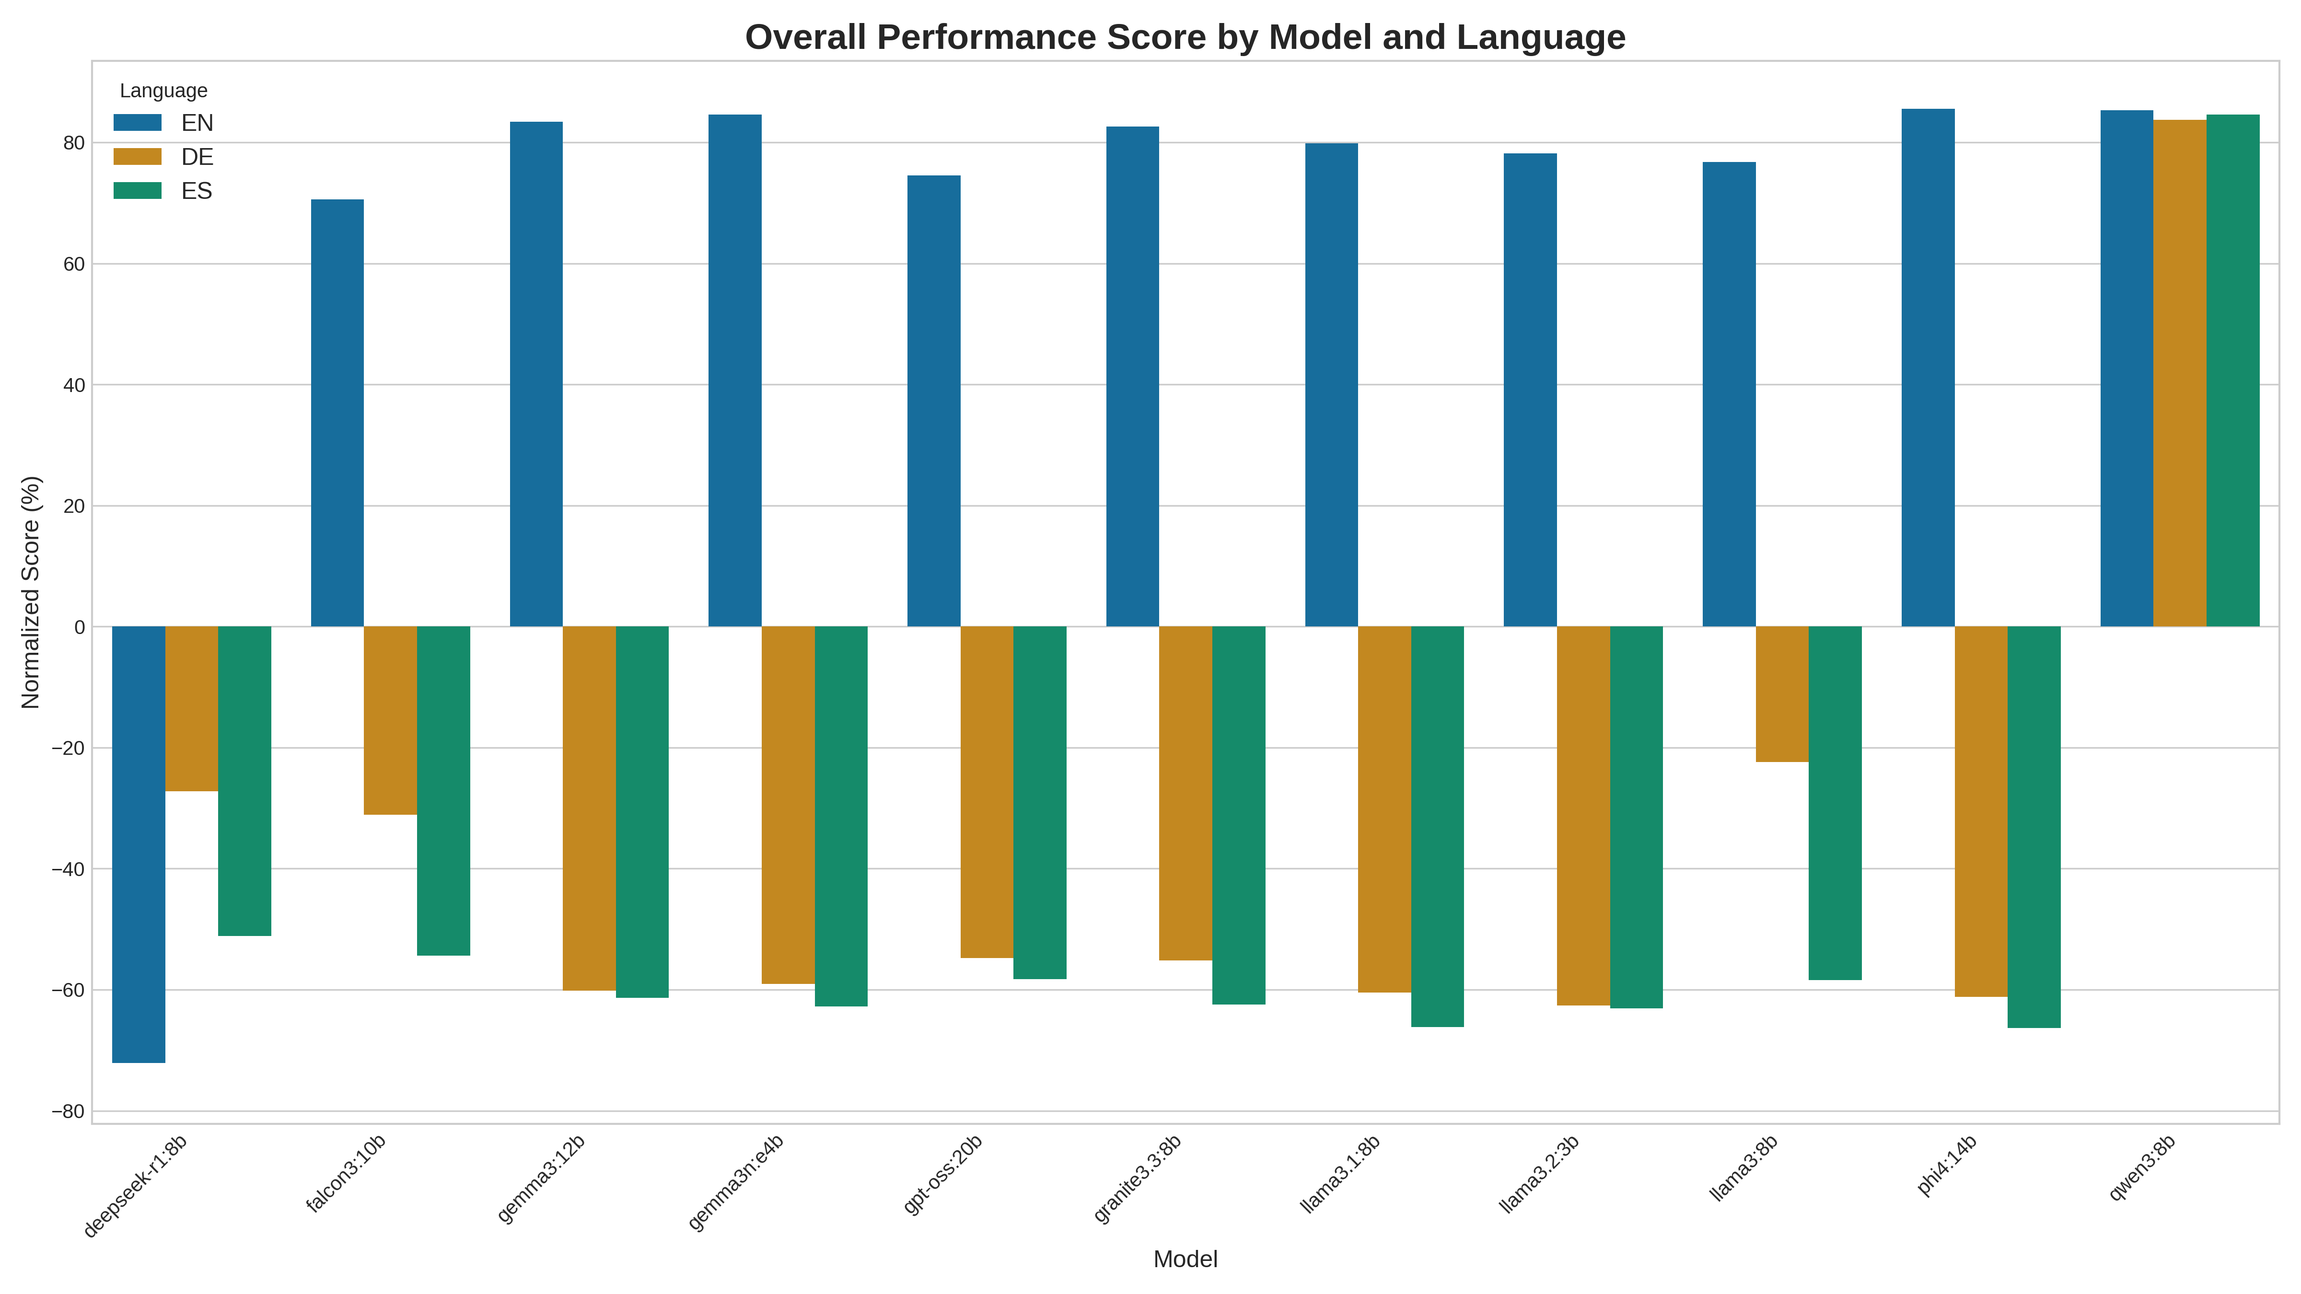
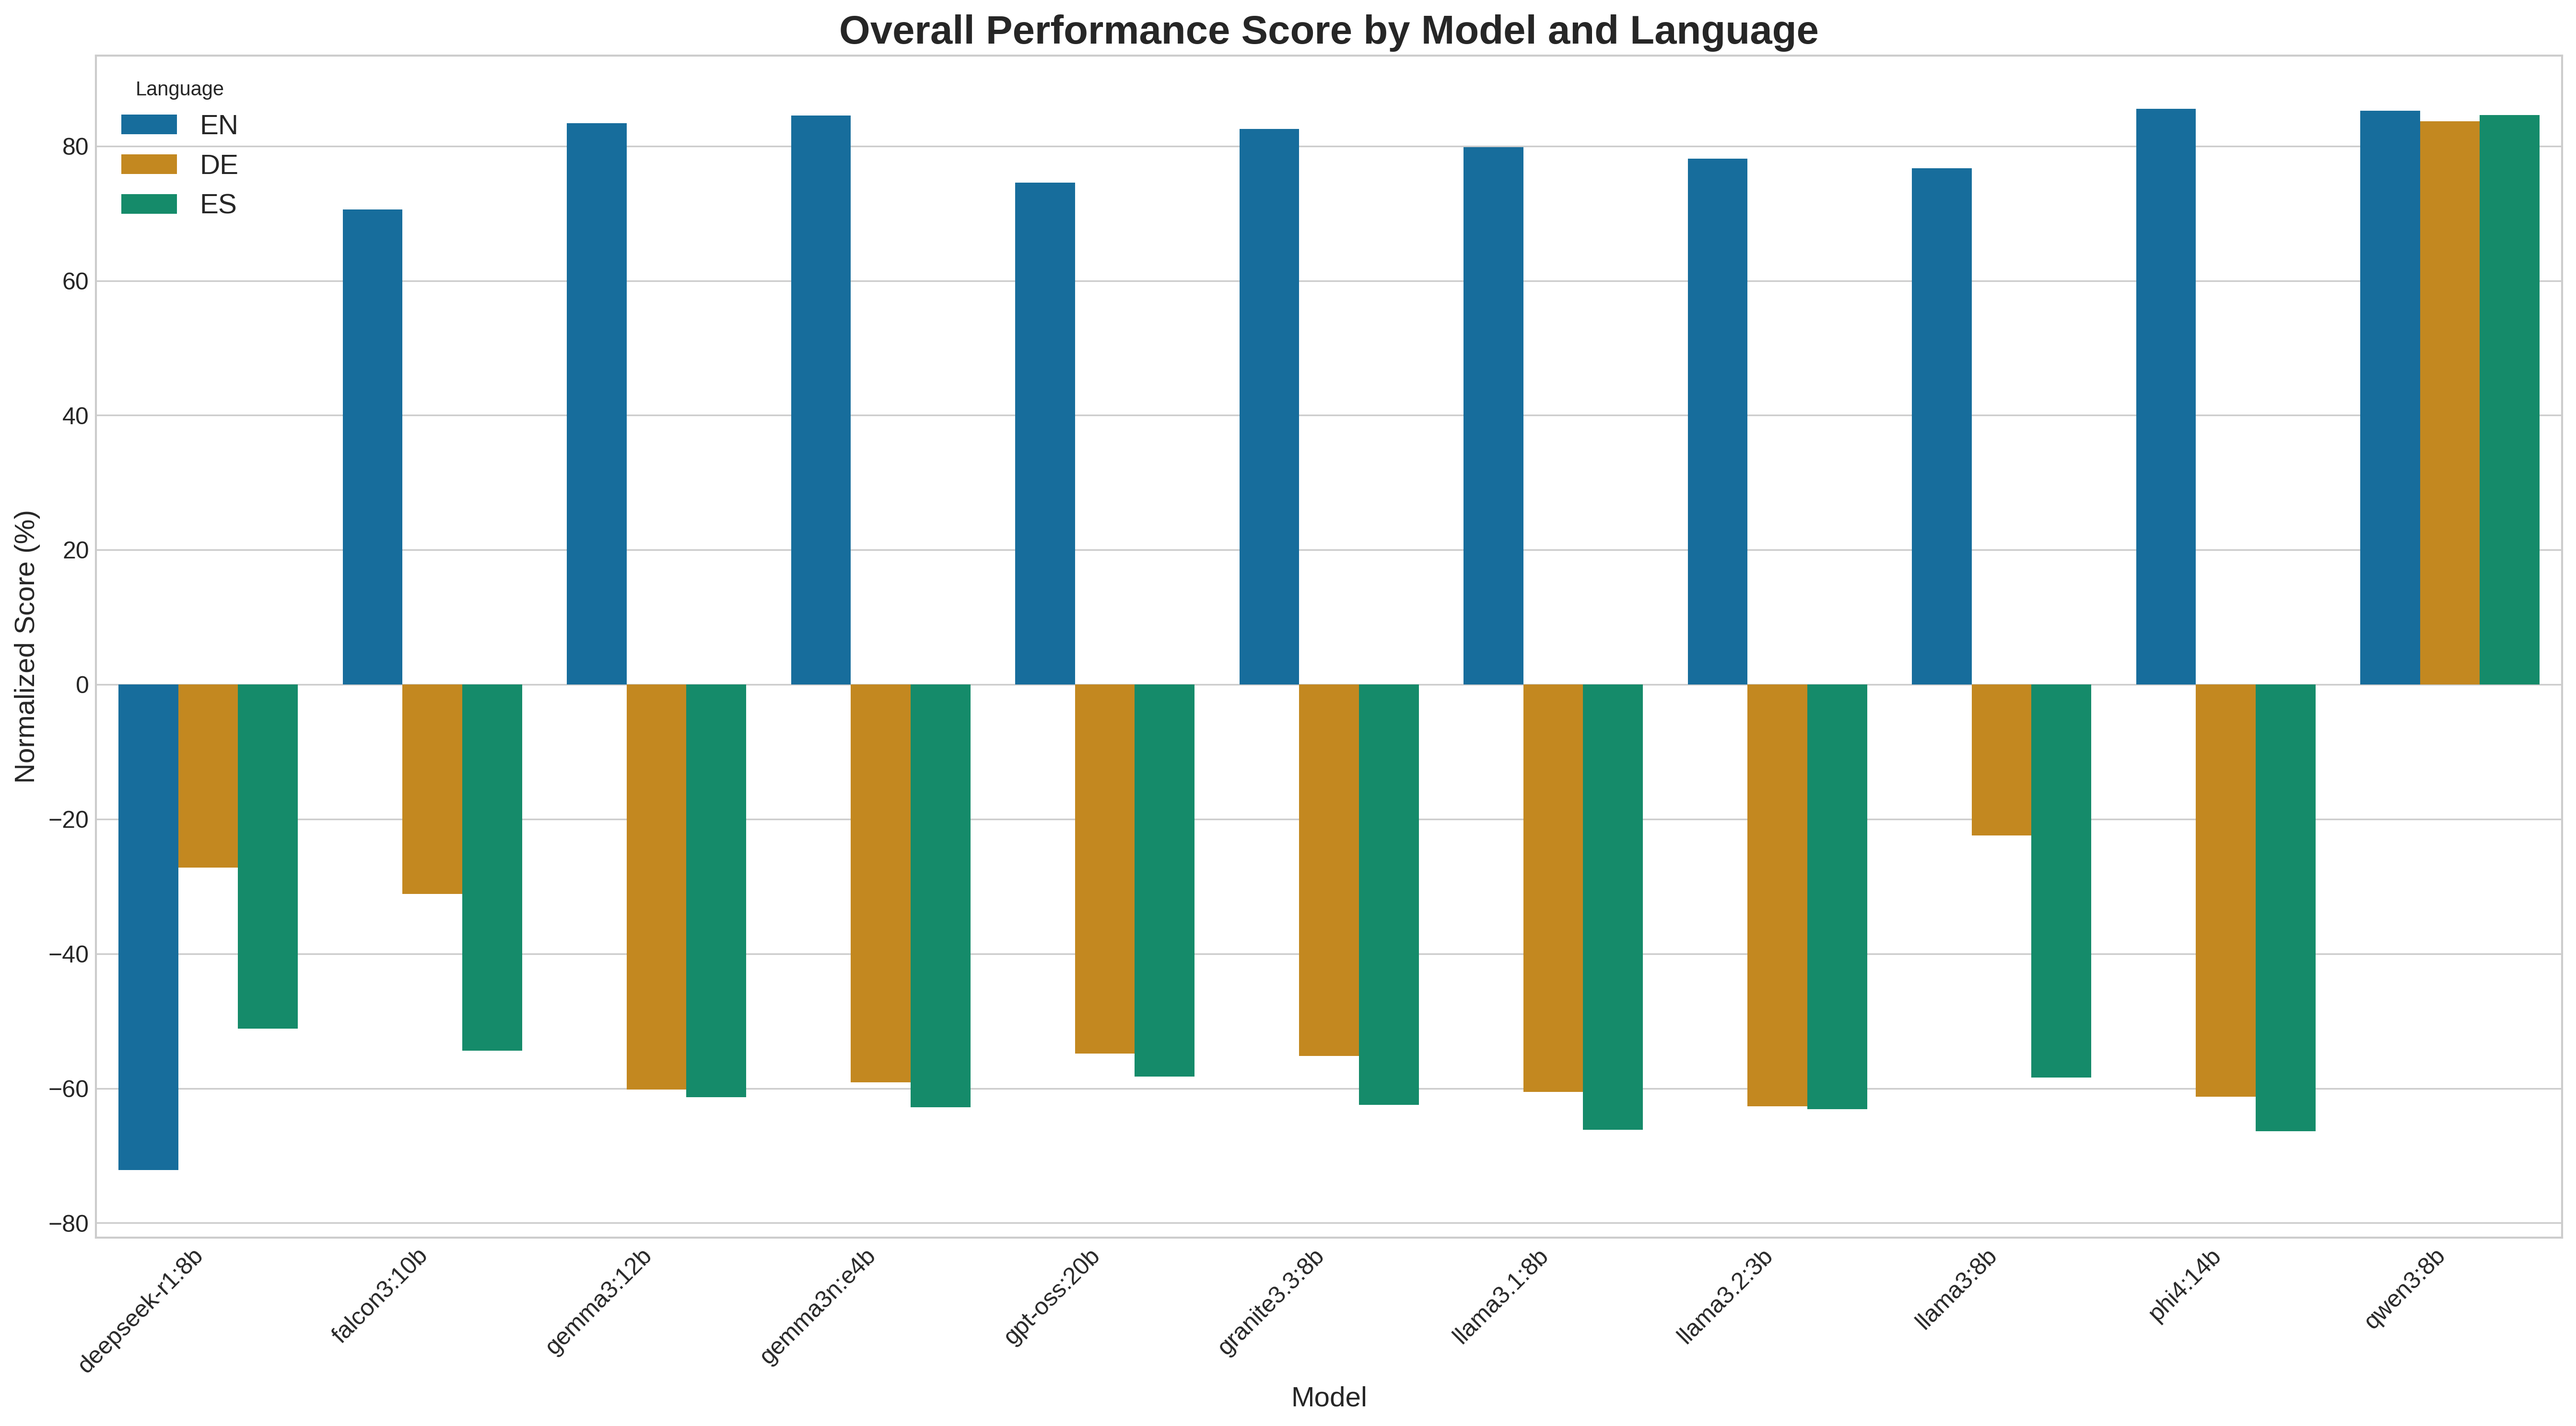
Alter analyse_results.py prgram and re-run to generate output

diff --git a/src/analyse_results.py b/src/analyse_results.py
@@ -1,4 +1,4 @@
-# analyse_results.py (Version 5 - Final Corrected)
+# src/analyse_results.py (Version 8 - Final, Publication Quality)
 
 """
 analyse_results.py
@@ -6,11 +6,11 @@ analyse_results.py
 Purpose:
   This is the final script in the experimental pipeline. It loads the clean,
   fully scored dataset and generates all the summary tables (CSVs) and
-  visualizations (PNGs) required for the research paper.
+  publication-quality visualizations (PNGs) required for the research paper.
 
 Inputs:
   - ../analysis_outputs/final_scored_results_[latest].csv: The clean,
-    fully scored dataset.
+    fully scored dataset generated by score_results.py.
 
 Outputs:
   This script saves the following files into the 'analysis_outputs/' directory:
@@ -39,8 +39,8 @@ sns.set_palette("colorblind")
 def find_latest_file(directory, pattern):
     """Finds the most recently created file in a directory matching a pattern."""
     try:
-        search_path = os.path.join(directory, pattern)
-        list_of_files = glob.glob(str(search_path))
+        search_path = os.path.join(directory, str(pattern))
+        list_of_files = glob.glob(search_path)
         if not list_of_files: return None
         return max(list_of_files, key=os.path.getctime)
     except Exception as e:
@@ -100,7 +100,7 @@ def main():
     category_percentages = (category_counts.T / total_counts).T * 100
     category_summary_df = category_percentages.reset_index()
 
-    # --- 4. Generate Outputs ---
+    # --- 4. Generate Outputs (CSV and Console) ---
     # (This section is unchanged and correct)
     print("\n--- High-Level Summary Statistics ---")
     print(f"Total results analyzed: {len(df)}")
@@ -119,48 +119,54 @@ def main():
     category_summary_df.to_csv(ANALYSIS_DIR / 'summary_category_analysis.csv', index=False, float_format='%.2f')
     print(f"Saved response category analysis to '{ANALYSIS_DIR / 'summary_category_analysis.csv'}'")
 
-    print("\nGenerating visualizations...")
+    # --- 5. Visualization Generation ---
+    print("\nGenerating publication-quality visualizations...")
     
     # Output 5: Overall Performance Visualization
-    plt.figure(figsize=(16, 9))
+    plt.figure(figsize=(18, 10))
     plot_df = overall_summary_df.melt(id_vars='model_identifier', value_vars=['EN', 'DE', 'ES'], var_name='Language', value_name='Score')
     sns.barplot(data=plot_df, x='model_identifier', y='Score', hue='Language', errorbar=None)
-    plt.title('Overall Performance Score by Model and Language', fontsize=18, weight='bold')
-    plt.ylabel('Normalized Score (%)', fontsize=12)
-    plt.xlabel('Model', fontsize=12)
-    plt.xticks(rotation=45, ha='right')
-    plt.legend(title='Language', fontsize=12)
+    plt.title('Overall Performance Score by Model and Language', fontsize=20, weight='bold')
+    plt.ylabel('Normalized Score (%)', fontsize=14)
+    plt.xlabel('Model', fontsize=14)
+    plt.xticks(rotation=45, ha='right', fontsize=12)
+    plt.yticks(fontsize=12)
+    plt.legend(title='Language', fontsize=14)
     plt.tight_layout()
     plt.ylim(bottom=min(0, plot_df['Score'].min() - 10))
     output_path = ANALYSIS_DIR / 'figure_1_overall_performance.png'
-    plt.savefig(output_path, dpi=300)
+    plt.savefig(output_path, dpi=300, bbox_inches='tight')
     print(f"Saved overall performance chart to '{output_path}'")
     plt.close()
 
-    # Output 6: Domain-Specific Drift Visualization (Slope Chart)
-    plt.figure(figsize=(12, 10))
-    slope_df = domain_summary_df.melt(id_vars=['model_identifier', 'domain'], value_vars=['EN', 'DE'], var_name='language', value_name='Score')
-    sns.lineplot(data=slope_df, x='language', y='Score', hue='domain', style='domain', markers=True, dashes=False, legend='full', units='model_identifier', estimator=None, lw=0.5, alpha=0.5)
-    for model in models:
-        en_scores = slope_df[(slope_df['model_identifier'] == model) & (slope_df['language'] == 'EN')]
-        if not en_scores.empty:
-            y_pos = en_scores['Score'].mean()
-            plt.text(-0.05, y_pos, model, ha='right', va='center', fontsize=9, weight='bold')
-    plt.xticks(['EN', 'DE'], ['English (EN)', 'German (DE)'], fontsize=12)
-    plt.title('Performance Drift by Domain (EN to DE)', fontsize=18, weight='bold')
-    plt.ylabel('Normalized Score (%)', fontsize=12)
-    plt.xlabel('Language', fontsize=12)
-    plt.grid(axis='y', linestyle='--', alpha=0.7)
-    handles, labels = plt.gca().get_legend_handles_labels()
-    by_label = dict(zip(labels, handles))
-    plt.legend(by_label.values(), by_label.keys(), fontsize=12, loc='best')
-    plt.tight_layout()
+    # Output 6: Domain-Specific Drift Visualization (FacetGrid)
+    slope_df_melted = domain_summary_df.melt(
+        id_vars=['model_identifier', 'domain'],
+        value_vars=['EN', 'DE', 'ES'],
+        var_name='language',
+        value_name='Score'
+    )
+    
+    # *** THIS IS THE FIX: Define the order for the hue mapping. ***
+    domain_order = ['Factual Accuracy', 'Procedural Reasoning']
+
+    g = sns.FacetGrid(slope_df_melted, col="model_identifier", col_wrap=4, height=4, aspect=1.2, sharey=True)
+    # Pass the hue_order to the mapping function.
+    g.map(sns.pointplot, "language", "Score", "domain", 
+          markers=["o", "x"], linestyles=["-", "--"], 
+          palette="colorblind", order=['EN', 'DE', 'ES'], errorbar=None,
+          hue_order=domain_order)
+    g.set_titles("{col_name}", size=14)
+    g.set_axis_labels("Language", "Normalized Score (%)")
+    g.add_legend(title='Domain')
+    g.fig.suptitle('Performance Drift by Domain and Model', y=1.03, fontsize=20, weight='bold')
+    g.tight_layout(rect=[0, 0, 1, 0.97])
     output_path = ANALYSIS_DIR / 'figure_2_domain_drift.png'
     plt.savefig(output_path, dpi=300)
     print(f"Saved domain drift chart to '{output_path}'")
     plt.close()
 
-    # Output 7: Response Category Visualization
+    # Output 7: Response Category Visualization (catplot)
     category_order = ['Correct', 'CorrectProcess_IncorrectResult', 'IDK', 'AmbiguousReasoning', 'IncorrectGuess', 'Fabrication', 'Incorrect']
     melted_df = category_summary_df.melt(id_vars=['model_identifier', 'language'], 
                                          value_vars=[cat for cat in category_order if cat in category_summary_df.columns],
@@ -172,21 +178,21 @@ def main():
         data=melted_df,
         kind='bar',
         x='percentage',
-        y='model_identifier',
+        y='language', # Y-axis is now language
         hue='score_category',
-        col='language',
-        col_order=languages,
-        height=8,
-        aspect=0.8,
+        col='model_identifier', # Faceting by model
+        col_wrap=4, # Arrange charts in a grid
+        height=5,
+        aspect=1.2,
         palette='colorblind',
         orient='h',
-        dodge=False
+        dodge=False, # Creates stacked bars
+        legend=False
     )
-    g.fig.suptitle('Response Category Distribution by Model and Language', y=1.03, fontsize=18, weight='bold')
-    g.set_axis_labels("Percentage of Responses (%)", "Model")
-    g.set_titles("Language: {col_name}")
-    # *** THIS IS THE CORRECTED LINE ***
-    g.set_yticklabels(rotation=0)
+    g.fig.suptitle('Response Category Distribution by Model and Language', y=1.03, fontsize=20, weight='bold')
+    g.set_axis_labels("Percentage of Responses (%)", "Language")
+    g.set_titles("{col_name}", size=14)
+    g.add_legend(title='Score Category')
     g.tight_layout(rect=[0, 0, 1, 0.97])
 
     output_path = ANALYSIS_DIR / 'figure_3_response_categories.png'
